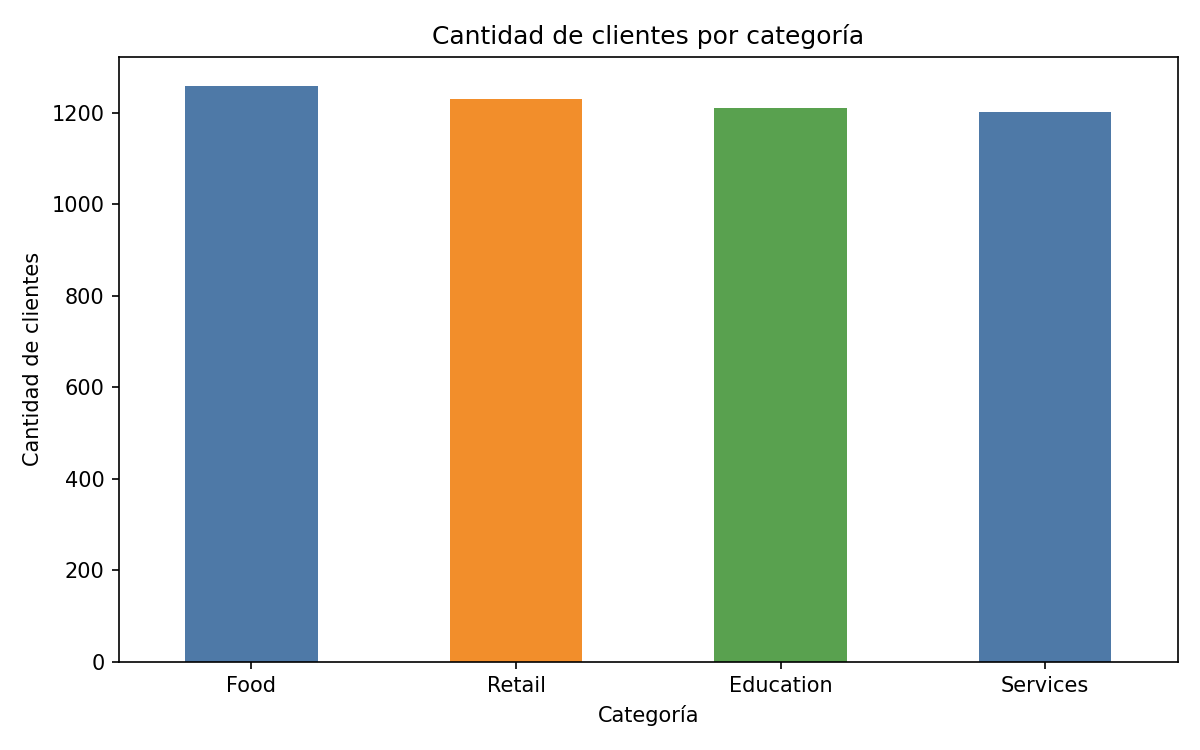
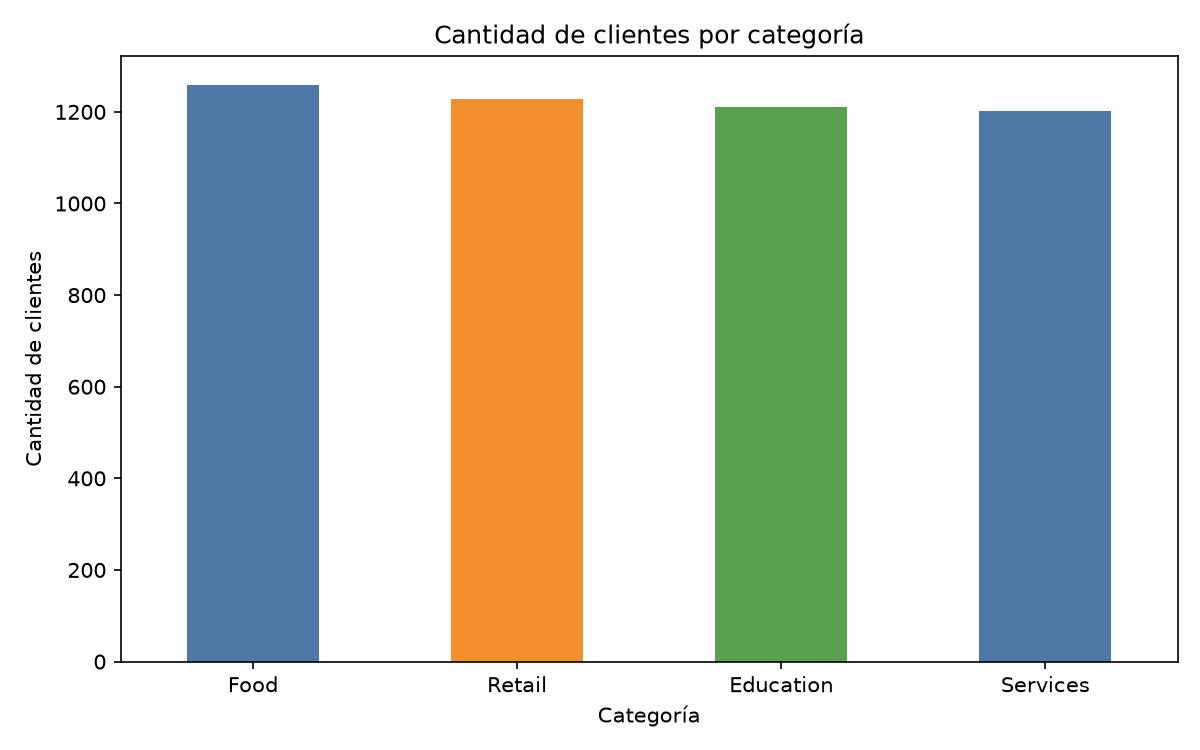
Versión final de tarea

diff --git a/Tarea1/limpieza_dataset.py b/Tarea1/limpieza_dataset.py
@@ -114,8 +114,60 @@ def estandarizar_categoria(valor):
     return categorias.get(valor.lower(), valor.title())
 
 
+def etiqueta_original(valor):
+    """
+    Convierte los valores originales a etiquetas visibles únicamente
+    para mostrar la tabla pivote antes de la limpieza.
+    No modifica el dataset original.
+    """
+    if pd.isna(valor):
+        return "<VACÍO>"
+
+    texto = str(valor)
+
+    if texto.strip() == "":
+        return "<ESPACIO EN BLANCO>"
+
+    texto_limpio = texto.strip()
+
+    if texto != texto_limpio:
+        return f"{texto_limpio} [con espacios]"
+
+    return texto
+
+
+def guardar_tabla_como_imagen(tabla, titulo, ruta):
+    """Guarda un DataFrame como imagen para documentarlo en el README."""
+    tabla_mostrar = tabla.reset_index()
+
+    ancho = max(10, len(tabla_mostrar.columns) * 1.5)
+    alto = max(4, len(tabla_mostrar) * 0.4)
+
+    fig, ax = plt.subplots(figsize=(ancho, alto))
+    ax.axis("off")
+    ax.set_title(titulo, pad=20, fontsize=14)
+
+    tabla_grafica = ax.table(
+        cellText=tabla_mostrar.values,
+        colLabels=tabla_mostrar.columns,
+        loc="center",
+        cellLoc="center"
+    )
+
+    tabla_grafica.auto_set_font_size(False)
+    tabla_grafica.set_fontsize(8)
+    tabla_grafica.scale(1, 1.3)
+
+    plt.tight_layout()
+    plt.savefig(ruta, dpi=150, bbox_inches="tight")
+    plt.close()
+
+
 # CARGA DEL DATASET
 df = pd.read_csv(ARCHIVO_ENTRADA, encoding="utf-8")
+
+# Se conserva una copia exacta del dataset antes de realizar cualquier limpieza.
+df_original = df.copy()
 
 print("\n========== DATASET ORIGINAL ==========")
 print(f"Cantidad de registros originales: {len(df)}")
@@ -123,11 +175,55 @@ print(f"Cantidad de columnas: {len(df.columns)}")
 print("\nPrimeras filas del dataset original:")
 print(df.head())
 
+
+# TABLA PIVOTE ANTES DE LA LIMPIEZA
+
+# Se utiliza una copia exclusivamente para visualizar de forma clara
+# los valores inconsistentes del dataset original.
+vista_pivote_antes = df_original.copy()
+
+vista_pivote_antes["categoria"] = (
+    vista_pivote_antes["categoria"].apply(etiqueta_original)
+)
+
+vista_pivote_antes["genero"] = (
+    vista_pivote_antes["genero"].apply(etiqueta_original)
+)
+
+tabla_pivote_antes = pd.pivot_table(
+    vista_pivote_antes,
+    index="categoria",
+    columns="genero",
+    values="id_cliente",
+    aggfunc="count",
+    fill_value=0,
+    margins=True,
+    margins_name="Total"
+)
+
+print("\n========== TABLA PIVOTE ANTES DE LA LIMPIEZA ==========")
+print(tabla_pivote_antes)
+
+tabla_pivote_antes.to_csv(
+    os.path.join(CARPETA_SALIDA, "tabla_pivote_antes.csv"),
+    encoding="utf-8-sig"
+)
+
+guardar_tabla_como_imagen(
+    tabla_pivote_antes,
+    "Tabla pivote antes de la limpieza",
+    os.path.join(CARPETA_SALIDA, "tabla_pivote_antes.png")
+)
+
+
 # Se guarda información inicial para el reporte.
 registros_iniciales = len(df)
 duplicados_completos_iniciales = df.duplicated().sum()
 ids_duplicados_iniciales = df["id_cliente"].duplicated().sum()
 celdas_vacias_iniciales = df.isna().sum().sum()
+
+categorias_originales = df_original["categoria"].nunique(dropna=False)
+generos_originales = df_original["genero"].nunique(dropna=False)
 
 # 1. LIMPIEZA GENERAL DE TEXTO
 columnas_texto = ["nombre", "genero", "ciudad", "categoria"]
@@ -189,19 +285,58 @@ df["gasto_q"] = df["gasto_q"].round(2)
 df["fecha_registro"] = df["fecha_registro"].dt.strftime("%Y-%m-%d")
 
 
+# TABLA PIVOTE DESPUÉS DE LA LIMPIEZA
+
+tabla_pivote_despues = pd.pivot_table(
+    df,
+    index="categoria",
+    columns="genero",
+    values="id_cliente",
+    aggfunc="count",
+    fill_value=0,
+    margins=True,
+    margins_name="Total"
+)
+
+print("\n========== TABLA PIVOTE DESPUÉS DE LA LIMPIEZA ==========")
+print(tabla_pivote_despues)
+
+tabla_pivote_despues.to_csv(
+    os.path.join(CARPETA_SALIDA, "tabla_pivote_despues.csv"),
+    encoding="utf-8-sig"
+)
+
+guardar_tabla_como_imagen(
+    tabla_pivote_despues,
+    "Tabla pivote después de la limpieza",
+    os.path.join(CARPETA_SALIDA, "tabla_pivote_despues.png")
+)
+
 
 # 5. REPORTE DE RESULTADOS
 registros_finales = len(df)
 celdas_vacias_finales = df.isna().sum().sum()
 
+duplicados_completos_finales = df.duplicated().sum()
+ids_duplicados_finales = df["id_cliente"].duplicated().sum()
+
+categorias_finales = df["categoria"].nunique(dropna=False)
+generos_finales = df["genero"].nunique(dropna=False)
+
 reporte = pd.DataFrame({
     "indicador": [
         "Registros iniciales",
-        "Duplicados completos detectados",
-        "IDs de cliente repetidos detectados",
+        "Duplicados completos detectados inicialmente",
+        "IDs de cliente repetidos detectados inicialmente",
         "Celdas vacías iniciales",
+        "Categorías distintas antes de la limpieza",
+        "Valores de género distintos antes de la limpieza",
         "Registros finales",
+        "Duplicados completos finales",
+        "IDs de cliente repetidos finales",
         "Celdas vacías finales",
+        "Categorías distintas después de la limpieza",
+        "Valores de género distintos después de la limpieza",
         "Registros eliminados"
     ],
     "valor": [
@@ -209,8 +344,14 @@ reporte = pd.DataFrame({
         duplicados_completos_iniciales,
         ids_duplicados_iniciales,
         celdas_vacias_iniciales,
+        categorias_originales,
+        generos_originales,
         registros_finales,
+        duplicados_completos_finales,
+        ids_duplicados_finales,
         celdas_vacias_finales,
+        categorias_finales,
+        generos_finales,
         registros_iniciales - registros_finales
     ]
 })
@@ -226,6 +367,36 @@ print(df.head())
 
 print("\n========== REPORTE DE LIMPIEZA ==========")
 print(reporte)
+
+print("\n========== INTERPRETACIÓN DE LA LIMPIEZA ==========")
+
+print(
+    f"El dataset pasó de {registros_iniciales} a {registros_finales} registros "
+    f"debido a la eliminación de {registros_iniciales - registros_finales} "
+    "registros duplicados."
+)
+
+print(
+    f"Las celdas vacías pasaron de {celdas_vacias_iniciales} a "
+    f"{celdas_vacias_finales}, por lo que no quedaron valores nulos "
+    "después del tratamiento."
+)
+
+print(
+    f"Las diferentes representaciones de categoría se redujeron de "
+    f"{categorias_originales} a {categorias_finales} valores consistentes."
+)
+
+print(
+    f"Las diferentes representaciones de género se redujeron de "
+    f"{generos_originales} a {generos_finales} valores estandarizados."
+)
+
+print(
+    "Las tablas pivote permiten observar que valores que originalmente "
+    "se encontraban separados por diferencias de mayúsculas, minúsculas "
+    "y espacios fueron consolidados correctamente después de la limpieza."
+)
 
 # Gráfica 1: número de clientes por categoría.
 plt.figure(figsize=(8, 5))

diff --git a/Tarea1/README.md b/Tarea1/README.md
@@ -6,15 +6,15 @@
 
 El dataset contiene información de clientes, incluyendo las siguientes variables:
 
-- `id_cliente`: identificador único de cada cliente.
-- `nombre`: nombre del cliente.
-- `genero`: género registrado.
-- `fecha_registro`: fecha de registro del cliente.
-- `gasto_q`: gasto del cliente expresado en quetzales.
-- `ciudad`: ciudad de residencia o registro.
-- `categoria`: categoría asociada al cliente.
+* `id_cliente`: identificador único de cada cliente.
+* `nombre`: nombre del cliente.
+* `genero`: género registrado.
+* `fecha_registro`: fecha de registro del cliente.
+* `gasto_q`: gasto del cliente expresado en quetzales.
+* `ciudad`: ciudad de residencia o registro.
+* `categoria`: categoría asociada al cliente.
 
-El archivo original contiene más de 5,000 registros y presenta problemas de calidad de datos, como duplicados, valores vacíos, diferencias de formato, espacios innecesarios y registros escritos con mayúsculas y minúsculas inconsistentes.
+El archivo original contiene 5,000 registros y presenta problemas de calidad de datos, como duplicados, valores vacíos, diferencias de formato, espacios innecesarios y registros escritos con mayúsculas y minúsculas inconsistentes.
 
 ## Objetivo
 
@@ -22,10 +22,10 @@ Aplicar un proceso de limpieza de datos con Python para obtener un dataset más 
 
 ## Herramientas utilizadas
 
-- Python
-- Pandas
-- Matplotlib
-- CSV
+* Python
+* Pandas
+* Matplotlib
+* CSV
 
 ## Proceso de limpieza aplicado
 
@@ -44,10 +44,10 @@ Se identificaron valores vacíos en distintas columnas del dataset.
 
 Las acciones aplicadas fueron:
 
-- En las columnas de texto, los valores vacíos se reemplazaron por `No especificado`.
-- Las fechas faltantes se reemplazaron por la fecha más frecuente del dataset, cuando fue posible calcularla.
-- Los valores faltantes en `gasto_q` se reemplazaron con la mediana de gasto de la categoría correspondiente.
-- En caso de que no existiera una mediana por categoría, se utilizó la mediana general del gasto.
+* En las columnas de texto, los valores vacíos se reemplazaron por `No especificado`.
+* Las fechas se convirtieron a un formato uniforme. En caso de encontrarse una fecha faltante o un valor que no pueda interpretarse correctamente, el script utiliza la fecha más frecuente del dataset como mecanismo de imputación, siempre que sea posible calcularla.
+* Los valores faltantes en `gasto_q` se reemplazaron con la mediana de gasto de la categoría correspondiente.
+* En caso de que no existiera una mediana por categoría, se utilizó la mediana general del gasto.
 
 La mediana se utilizó porque es menos sensible a valores extremos que el promedio.
 
@@ -55,23 +55,93 @@ La mediana se utilizó porque es menos sensible a valores extremos que el promed
 
 Se aplicaron las siguientes transformaciones:
 
-- Se eliminaron espacios adicionales al inicio, final y dentro de los valores textuales.
-- Los nombres fueron convertidos al formato de título, por ejemplo: `ANA DIAZ` pasó a `Ana Diaz`.
-- Los valores de género como `m`, `M`, `f` y `F` se unificaron como `Masculino` y `Femenino`.
-- Las fechas fueron convertidas al formato uniforme `YYYY-MM-DD`.
-- Los valores de gasto que usaban coma decimal, como `373,33`, se transformaron a valores numéricos con punto decimal: `373.33`.
-- Las ciudades se normalizaron, por ejemplo: `quetzaltenango` pasó a `Quetzaltenango`.
-- Las categorías se estandarizaron con formato consistente, por ejemplo: `retail`, `RETAIL` y `Retail` pasaron a `Retail`.
+* Se eliminaron espacios adicionales al inicio, final y dentro de los valores textuales.
+* Los nombres fueron convertidos al formato de título, por ejemplo: `ANA DIAZ` pasó a `Ana Diaz`.
+* Los valores de género como `m`, `M`, `f` y `F` se unificaron como `Masculino` y `Femenino`.
+* Las fechas fueron convertidas al formato uniforme `YYYY-MM-DD`.
+* Los valores de gasto que usaban coma decimal, como `373,33`, se transformaron a valores numéricos con punto decimal: `373.33`.
+* Las ciudades se normalizaron, por ejemplo: `quetzaltenango` pasó a `Quetzaltenango`.
+* Las categorías se estandarizaron con formato consistente, por ejemplo: `retail`, `RETAIL` y `Retail` pasaron a `Retail`.
+
+## Comparación antes y después de la limpieza
+
+Para comprobar el efecto del proceso de limpieza se conservaron los datos originales antes de realizar las transformaciones y se compararon con el dataset resultante.
+
+| Indicador                               | Antes de la limpieza | Después de la limpieza |
+| --------------------------------------- | -------------------: | ---------------------: |
+| Cantidad de registros                   |                5,000 |                  4,900 |
+| Filas duplicadas                        |                  100 |                      0 |
+| IDs de cliente repetidos                |                  100 |                      0 |
+| Celdas nulas                            |                  722 |                      0 |
+| Representaciones distintas de categoría |                   16 |                      4 |
+| Representaciones distintas de género    |                    8 |                      3 |
+
+La reducción de 5,000 a 4,900 registros corresponde a la eliminación de 100 registros duplicados. Asimismo, después del tratamiento de valores faltantes no quedaron celdas nulas en el dataset depurado.
+
+La estandarización también redujo las diferentes representaciones de las categorías de 16 a 4 valores consistentes: `Education`, `Food`, `Retail` y `Services`. De manera similar, los valores asociados al género quedaron consolidados en `Femenino`, `Masculino` y `No especificado`.
+
+### Tabla pivote antes de la limpieza
+
+La siguiente tabla muestra la distribución de clientes según categoría y género antes del proceso de limpieza.
+
+![Tabla pivote antes de la limpieza](./resultados/tabla_pivote_antes.png)
+
+Antes del tratamiento puede observarse que una misma categoría aparece representada de diferentes maneras debido al uso inconsistente de mayúsculas, minúsculas y espacios. El mismo problema ocurre con los valores de género, provocando que registros que conceptualmente pertenecen al mismo grupo aparezcan separados.
+
+Por ejemplo, valores como `Education`, `EDUCATION` y `education` son tratados inicialmente como grupos diferentes. También existen registros que contienen espacios adicionales. La tabla permite visualizar claramente cómo estas inconsistencias afectan la agrupación de la información.
+
+### Tabla pivote después de la limpieza
+
+Después de aplicar las transformaciones se generó nuevamente la misma tabla pivote.
+
+![Tabla pivote después de la limpieza](./resultados/tabla_pivote_despues.png)
+
+Después de la limpieza las categorías quedan consolidadas en cuatro grupos y los valores de género en tres grupos consistentes. Esto permite realizar análisis más confiables, ya que registros equivalentes dejan de contabilizarse como categorías diferentes debido únicamente a problemas de formato.
+
+La tabla resultante también permite observar que la distribución de clientes es relativamente equilibrada entre las cuatro categorías y entre los géneros femenino y masculino. Los registros cuyo género no estaba disponible fueron conservados bajo la categoría `No especificado` en lugar de eliminar información válida.
 
 ## Archivos generados
 
-Después de ejecutar el script `limpieza_dataset.py`, se generan los siguientes archivos:
+Después de ejecutar el script `limpieza_dataset.py`, los resultados se almacenan en la carpeta `resultados`.
+
+Los principales archivos generados son:
+
+* `dataset_limpio.csv`: dataset final después del proceso de limpieza.
+* `reporte_limpieza.csv`: resumen cuantitativo de los cambios aplicados.
+* `tabla_pivote_antes.csv`: tabla pivote generada con los datos antes de la limpieza.
+* `tabla_pivote_despues.csv`: tabla pivote generada con los datos depurados.
+* `tabla_pivote_antes.png`: representación visual de la tabla pivote original.
+* `tabla_pivote_despues.png`: representación visual de la tabla pivote final.
+* `clientes_por_categoria.png`: gráfica de clientes agrupados por categoría.
+* `clientes_por_genero.png`: gráfica de clientes agrupados por género.
+* `gasto_promedio_por_ciudad.png`: gráfica del gasto promedio de los clientes por ciudad.
+
+## Visualizaciones e interpretación de resultados
 
 ### Clientes por categoría
-![clientes por categoría](./resultados/clientes_por_categoria.png)
+
+![Clientes por categoría](./resultados/clientes_por_categoria.png)
+
+La distribución de los clientes entre las categorías es bastante equilibrada. `Food` presenta la mayor cantidad con 1,259 clientes, seguida de `Retail` con 1,229, `Education` con 1,211 y `Services` con 1,201. Las diferencias son reducidas, por lo que ninguna categoría concentra una proporción excesivamente alta de los registros.
 
 ### Clientes por género
-![clientes por genero](./resultados/clientes_por_genero.png)
+
+![Clientes por género](./resultados/clientes_por_genero.png)
+
+Después de la estandarización se identificaron 2,406 clientes registrados como `Femenino`, 2,381 como `Masculino` y 113 como `No especificado`. Esto muestra una distribución prácticamente equilibrada entre los géneros femenino y masculino. Los valores que originalmente estaban vacíos o no podían clasificarse de forma confiable se conservaron como `No especificado`.
 
 ### Gasto promedio por ciudad
+
 ![Gasto promedio por ciudad](./resultados/gasto_promedio_por_ciudad.png)
+
+El gasto promedio más alto corresponde a Escuintla, con aproximadamente Q267.41 por cliente, seguido por Chimaltenango con Q263.22 y Quetzaltenango con Q258.28. Guatemala presenta el menor promedio entre las ciudades identificadas, con aproximadamente Q241.11.
+
+Aunque existen diferencias entre ciudades, los valores se mantienen dentro de un intervalo relativamente cercano, por lo que no se observa una ciudad que se aleje de manera extrema del comportamiento general.
+
+## Conclusión
+
+El proceso aplicado permitió transformar el dataset original en una fuente de información más consistente y adecuada para el análisis. Se eliminaron registros duplicados, se trataron los valores faltantes y se estandarizaron textos, fechas, ciudades, categorías, géneros y valores monetarios.
+
+La comparación entre las tablas pivote antes y después de la limpieza evidencia el impacto de estas transformaciones: valores que originalmente representaban una misma categoría aparecían separados debido a diferencias de formato, mientras que en el dataset depurado se encuentran consolidados.
+
+Como resultado, los análisis y visualizaciones posteriores pueden interpretarse con mayor confiabilidad, ya que la información se encuentra estructurada de forma consistente y sin registros duplicados ni valores nulos.
